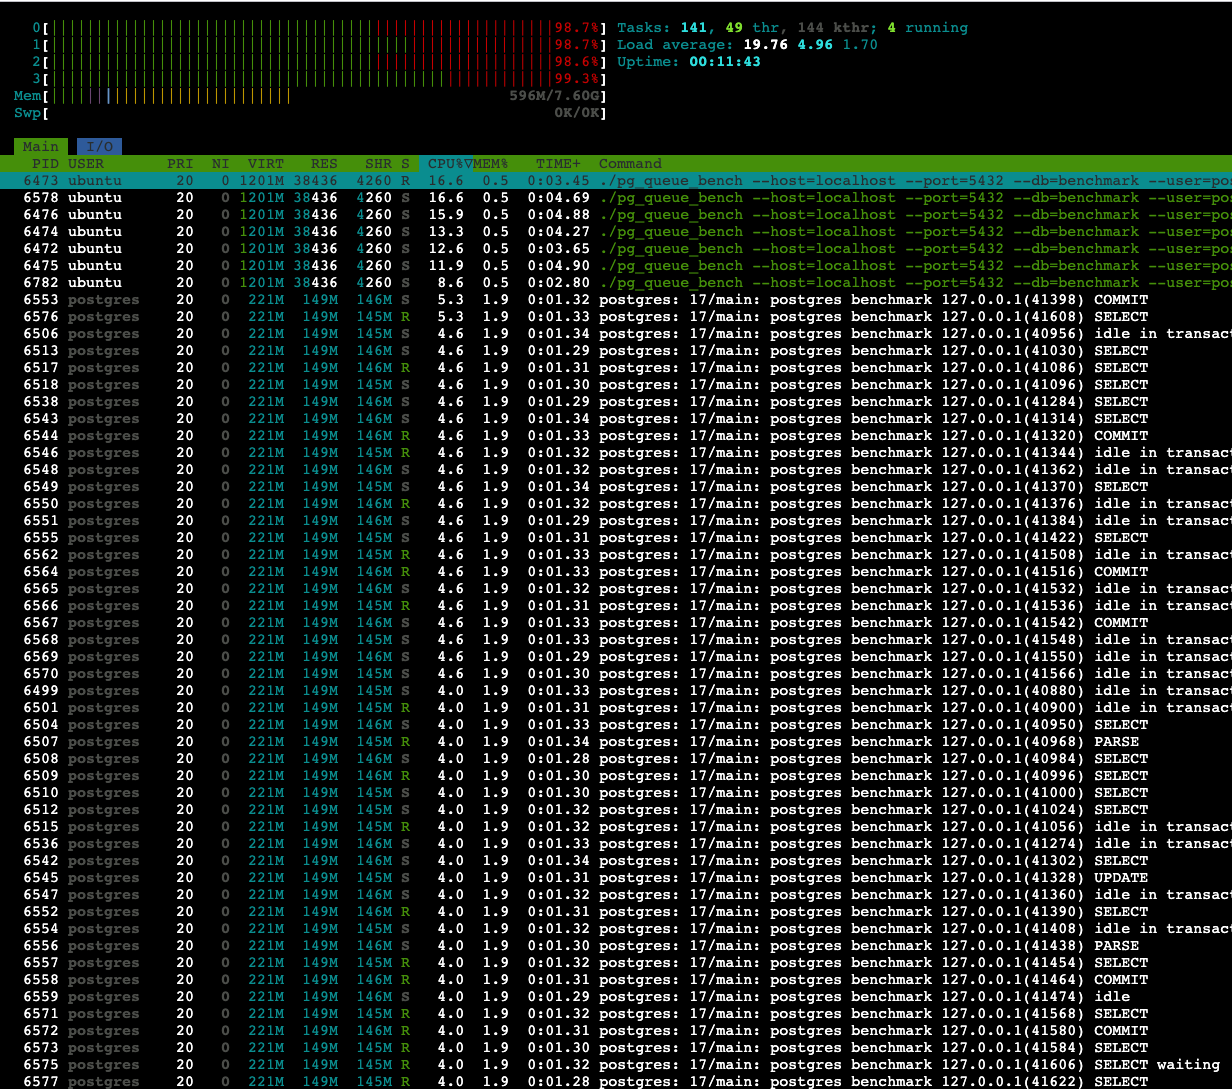
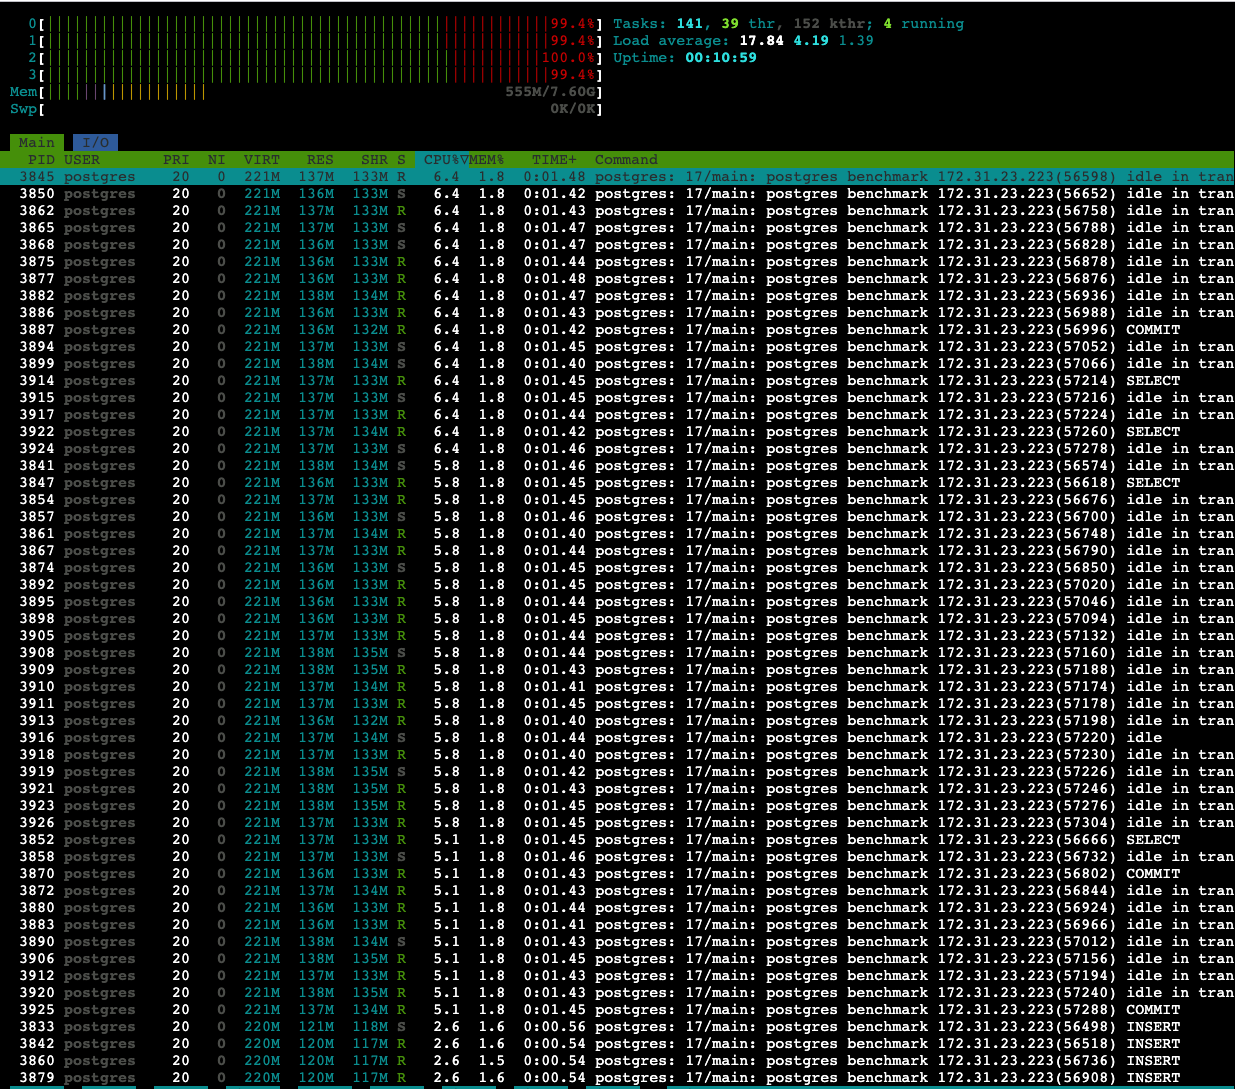
Add definitive results with diff client/server and 4vcpu

diff --git a/results/queue/4vcpu/unlimited_writes_runs.md b/results/queue/4vcpu/unlimited_writes_runs.md
@@ -1,0 +1,149 @@
+
+![4vcpu_htop_screen.png](./4vcpu_htop_screen.png) for more details.
+
+
+# Run 1:
+
+```bash
+ubuntu@ip-172-31-23-223:/tmp/postgres-queue-benchmarks$ ./pg_queue_bench   --host=$HOST   --port=5432   --db=benchmark   --user=postgres   --password=postgres   --writers=50   --readers=50   --duration=120s   --payload=1024   --report=5s
+[12:37:40] W: 13444/s R: 4296/s QDepth: 45742 Err(W/R): 0/0
+[12:37:45] W: 13994/s R: 4065/s QDepth: 95389 Err(W/R): 0/0
+[12:37:50] W: 13213/s R: 3736/s QDepth: 142775 Err(W/R): 0/0
+[12:37:55] W: 13225/s R: 3551/s QDepth: 191145 Err(W/R): 0/0
+[12:38:00] W: 12752/s R: 3351/s QDepth: 238149 Err(W/R): 0/0
+[12:38:05] W: 12596/s R: 3148/s QDepth: 285387 Err(W/R): 0/0
+[12:38:10] W: 11860/s R: 3035/s QDepth: 329512 Err(W/R): 0/0
+[12:38:15] W: 11886/s R: 2948/s QDepth: 374201 Err(W/R): 0/0
+[12:38:20] W: 13049/s R: 2654/s QDepth: 426172 Err(W/R): 0/0
+[12:38:25] W: 13058/s R: 3523/s QDepth: 473845 Err(W/R): 0/0
+[12:38:30] W: 12349/s R: 3339/s QDepth: 518897 Err(W/R): 0/0
+[12:38:35] W: 9232/s R: 1419/s QDepth: 557963 Err(W/R): 0/0
+[12:38:40] W: 8687/s R: 834/s QDepth: 597229 Err(W/R): 0/0
+[12:38:45] W: 7078/s R: 685/s QDepth: 629198 Err(W/R): 0/0
+[12:38:50] W: 7116/s R: 584/s QDepth: 661856 Err(W/R): 0/0
+[12:38:55] W: 6973/s R: 517/s QDepth: 694133 Err(W/R): 0/0
+[12:39:00] W: 6224/s R: 579/s QDepth: 722359 Err(W/R): 0/0
+[12:39:05] W: 11045/s R: 2527/s QDepth: 764948 Err(W/R): 0/0
+[12:39:10] W: 12520/s R: 2944/s QDepth: 812828 Err(W/R): 0/0
+[12:39:15] W: 12286/s R: 2848/s QDepth: 860016 Err(W/R): 0/0
+[12:39:20] W: 11700/s R: 2748/s QDepth: 904775 Err(W/R): 0/0
+[12:39:25] W: 11682/s R: 2616/s QDepth: 950104 Err(W/R): 0/0
+[12:39:30] W: 11019/s R: 2606/s QDepth: 992169 Err(W/R): 0/0
+
+=== Summary ===
+Total Writes: 1341944
+Total Reads: 305180
+Total Updates: 305180
+Write Errors: 0
+Read Errors: 6
+Avg Write Throughput: 11182.87 rows/sec
+Avg Read Throughput: 2543.17 rows/sec
+
+Write Latencies:
+  P50: 3.201023ms
+  P95: 11.149311ms
+  P99: 26.296319ms
+
+Read Latencies:
+  P50: 14.966783ms
+  P95: 53.870591ms
+  P99: 100.335615ms
+
+2025/09/30 12:39:35 benchmark complete
+```
+# Run 2
+```bash
+ubuntu@ip-172-31-23-223:/tmp/postgres-queue-benchmarks$ ./pg_queue_bench   --host=$HOST   --port=5432   --db=benchmark   --user=postgres   --password=postgres   --writers=50   --readers=50   --duration=120s   --payload=1024   --report=5s
+[12:40:08] W: 14031/s R: 4298/s QDepth: 48665 Err(W/R): 0/0
+[12:40:13] W: 14627/s R: 4018/s QDepth: 101708 Err(W/R): 0/0
+[12:40:18] W: 13690/s R: 3708/s QDepth: 151616 Err(W/R): 0/0
+[12:40:23] W: 13740/s R: 3506/s QDepth: 202787 Err(W/R): 0/0
+[12:40:28] W: 13505/s R: 3312/s QDepth: 253751 Err(W/R): 0/0
+[12:40:33] W: 13812/s R: 3127/s QDepth: 307179 Err(W/R): 0/0
+[12:40:38] W: 12589/s R: 3050/s QDepth: 354883 Err(W/R): 0/0
+[12:40:43] W: 8287/s R: 1135/s QDepth: 390640 Err(W/R): 0/0
+[12:40:48] W: 7398/s R: 792/s QDepth: 423671 Err(W/R): 0/0
+[12:40:53] W: 10793/s R: 2043/s QDepth: 467421 Err(W/R): 0/0
+[12:40:58] W: 13309/s R: 3293/s QDepth: 517500 Err(W/R): 0/0
+[12:41:03] W: 11118/s R: 2418/s QDepth: 561001 Err(W/R): 0/0
+[12:41:08] W: 12627/s R: 3065/s QDepth: 608808 Err(W/R): 0/0
+[12:41:13] W: 12835/s R: 2948/s QDepth: 658244 Err(W/R): 0/0
+[12:41:18] W: 12642/s R: 2834/s QDepth: 707289 Err(W/R): 0/0
+[12:41:23] W: 12450/s R: 2705/s QDepth: 756015 Err(W/R): 0/0
+[12:41:28] W: 12656/s R: 2598/s QDepth: 806304 Err(W/R): 0/0
+[12:41:33] W: 12377/s R: 2509/s QDepth: 855646 Err(W/R): 0/0
+[12:41:38] W: 11618/s R: 2496/s QDepth: 901259 Err(W/R): 0/0
+[12:41:43] W: 11773/s R: 2413/s QDepth: 948060 Err(W/R): 0/0
+[12:41:48] W: 12081/s R: 2343/s QDepth: 996751 Err(W/R): 0/0
+[12:41:53] W: 11378/s R: 2323/s QDepth: 1042026 Err(W/R): 0/0
+[12:41:58] W: 11192/s R: 2248/s QDepth: 1086746 Err(W/R): 0/0
+
+=== Summary ===
+Total Writes: 1447305
+Total Reads: 324410
+Total Updates: 324410
+Write Errors: 0
+Read Errors: 25
+Avg Write Throughput: 12060.88 rows/sec
+Avg Read Throughput: 2703.42 rows/sec
+
+Write Latencies:
+  P50: 3.096575ms
+  P95: 9.748479ms
+  P99: 22.806527ms
+
+Read Latencies:
+  P50: 15.654911ms
+  P95: 36.077567ms
+  P99: 69.140479ms
+
+2025/09/30 12:42:02 benchmark complete
+```
+# Run 3
+```bash
+ubuntu@ip-172-31-23-223:/tmp/postgres-queue-benchmarks$ ./pg_queue_bench   --host=$HOST   --port=5432   --db=benchmark   --user=postgres   --password=postgres   --writers=50   --readers=50   --duration=120s   --payload=1024   --report=5s
+[12:42:18] W: 13912/s R: 4321/s QDepth: 47957 Err(W/R): 0/0
+[12:42:23] W: 14022/s R: 3781/s QDepth: 99162 Err(W/R): 0/0
+[12:42:28] W: 14164/s R: 3895/s QDepth: 150505 Err(W/R): 0/0
+[12:42:33] W: 13553/s R: 3916/s QDepth: 198690 Err(W/R): 0/0
+[12:42:38] W: 13781/s R: 3648/s QDepth: 249353 Err(W/R): 0/0
+[12:42:43] W: 13473/s R: 3445/s QDepth: 299491 Err(W/R): 0/0
+[12:42:48] W: 12906/s R: 3283/s QDepth: 347609 Err(W/R): 0/0
+[12:42:53] W: 12571/s R: 3135/s QDepth: 394787 Err(W/R): 0/0
+[12:42:58] W: 13082/s R: 2978/s QDepth: 445308 Err(W/R): 0/0
+[12:43:03] W: 12469/s R: 2903/s QDepth: 493137 Err(W/R): 0/0
+[12:43:08] W: 12188/s R: 2807/s QDepth: 540041 Err(W/R): 0/0
+[12:43:13] W: 12639/s R: 2676/s QDepth: 589857 Err(W/R): 0/0
+[12:43:18] W: 12403/s R: 2599/s QDepth: 638877 Err(W/R): 0/0
+[12:43:23] W: 12007/s R: 2513/s QDepth: 686347 Err(W/R): 0/0
+[12:43:28] W: 11873/s R: 2437/s QDepth: 733524 Err(W/R): 0/0
+[12:43:33] W: 12048/s R: 2368/s QDepth: 781927 Err(W/R): 0/0
+[12:43:38] W: 11920/s R: 2314/s QDepth: 829960 Err(W/R): 0/0
+[12:43:43] W: 11154/s R: 2270/s QDepth: 874377 Err(W/R): 0/0
+[12:43:48] W: 11266/s R: 2218/s QDepth: 919619 Err(W/R): 0/0
+[12:43:53] W: 11056/s R: 2192/s QDepth: 963940 Err(W/R): 0/0
+[12:43:58] W: 11021/s R: 2132/s QDepth: 1008385 Err(W/R): 0/0
+[12:44:03] W: 10984/s R: 2091/s QDepth: 1052853 Err(W/R): 0/0
+[12:44:08] W: 10547/s R: 2065/s QDepth: 1095266 Err(W/R): 0/0
+
+=== Summary ===
+Total Writes: 1471892
+Total Reads: 338139
+Total Updates: 338139
+Write Errors: 0
+Read Errors: 10
+Avg Write Throughput: 12265.77 rows/sec
+Avg Read Throughput: 2817.82 rows/sec
+
+Write Latencies:
+  P50: 3.059711ms
+  P95: 9.437183ms
+  P99: 22.724607ms
+
+Read Latencies:
+  P50: 15.728639ms
+  P95: 31.899647ms
+  P99: 48.955391ms
+
+2025/09/30 12:44:12 benchmark complete
+```

diff --git a/results/queue/4vcpu/4vcpu.md b/results/queue/4vcpu/4vcpu.md
@@ -1,78 +1,33 @@
-- c7i.xlarge
-- io2 40GB with 10,000 IOPS
-- Ubuntu 24.04
-- 50 writers
-- 50 readers
-- 1 KB payload
-- 120s duration
-- absolute default postgres settings
+- server: c7i.xlarge
+  - io2 40GB with 10,000 IOPS
+  - Ubuntu 24.04
+  - absolute default postgres settings
+- client: c7i.xlarge
+  - 50 writers
+  - 50 readers
+  - 1 KB payload
+  - 120s duration
 
 # Run 1 (unlimited writes)
 
-- ✍ write: **10 MB/s**
-- 📖 read: **2.2 MB/s**
+```bash
+./pg_queue_bench   --host=$HOST   --port=5432   --db=benchmark   --user=postgres   --password=postgres   --writers=50   --readers=50   --duration=120s   --payload=1024   --report=5s
+```
+Ran three times. See detailed results in [unlimited_writes_runs.md](./unlimited_writes_runs.md). It averages out to:
+
+- ✍ write: **12.2 MB/s**
+- 📖 read: **2.7 MB/s**
+- write latency:
+  - p99: 24 ms
+  - p95: 10 ms
+  - p50: 3.1 ms
+- read latency:
+  - p99: 73 ms
+  - p95: 41 ms
+  - p50: 15.5 ms
 - bottleneck: 100% CPU
 
-See ![4vcpu_htop_screen.png](./4vcpu_htop_screen.png) for more details.
-
-
-```bash
-ubuntu@ip-172-31-20-198:/tmp/postgres-queue-benchmarks$ ./pg_queue_bench \
-  --host=localhost \
-  --port=5432 \
-  --db=benchmark \
-  --user=postgres \
-  --password=postgres \
-  --writers=50 \
-  --readers=50 \
-  --duration=120s \
-  --payload=1024 \
-  --report=5s
-[11:47:10] W: 10660/s R: 3288/s QDepth: 36860 Err(W/R): 0/0
-[11:47:15] W: 10556/s R: 2784/s QDepth: 75719 Err(W/R): 0/0
-[11:47:20] W: 10450/s R: 2799/s QDepth: 113976 Err(W/R): 0/0
-[11:47:25] W: 11290/s R: 2766/s QDepth: 156596 Err(W/R): 0/0
-[11:47:30] W: 10851/s R: 2791/s QDepth: 196894 Err(W/R): 0/0
-[11:47:35] W: 10308/s R: 2605/s QDepth: 235411 Err(W/R): 0/0
-[11:47:40] W: 10413/s R: 2638/s QDepth: 274285 Err(W/R): 0/0
-[11:47:45] W: 10192/s R: 2586/s QDepth: 312315 Err(W/R): 0/0
-[11:47:50] W: 7864/s R: 1095/s QDepth: 346159 Err(W/R): 0/0
-[11:47:55] W: 6726/s R: 790/s QDepth: 375840 Err(W/R): 0/0
-[11:48:00] W: 6872/s R: 636/s QDepth: 407023 Err(W/R): 0/0
-[11:48:05] W: 10644/s R: 2336/s QDepth: 448556 Err(W/R): 0/0
-[11:48:10] W: 10417/s R: 2598/s QDepth: 487653 Err(W/R): 0/0
-[11:48:15] W: 10590/s R: 2569/s QDepth: 527758 Err(W/R): 0/0
-[11:48:20] W: 10812/s R: 2536/s QDepth: 569135 Err(W/R): 0/0
-[11:48:25] W: 10389/s R: 2459/s QDepth: 608786 Err(W/R): 0/0
-[11:48:30] W: 10414/s R: 2333/s QDepth: 649194 Err(W/R): 0/0
-[11:48:35] W: 10239/s R: 2298/s QDepth: 688901 Err(W/R): 0/0
-[11:48:40] W: 10120/s R: 2231/s QDepth: 728344 Err(W/R): 0/0
-[11:48:45] W: 10663/s R: 2165/s QDepth: 770832 Err(W/R): 0/0
-[11:48:50] W: 9885/s R: 2065/s QDepth: 809932 Err(W/R): 0/0
-[11:48:55] W: 9821/s R: 2031/s QDepth: 848880 Err(W/R): 0/0
-[11:49:00] W: 10025/s R: 1985/s QDepth: 889082 Err(W/R): 0/0
-
-=== Summary ===
-Total Writes: 1200112
-Total Reads: 271724
-Total Updates: 271724
-Write Errors: 0
-Read Errors: 5
-Avg Write Throughput: 10000.93 rows/sec
-Avg Read Throughput: 2264.37 rows/sec
-
-Write Latencies:
-  P50: 3.389439ms
-  P95: 14.270463ms
-  P99: 30.818303ms
-
-Read Latencies:
-  P50: 16.973823ms
-  P95: 55.214079ms
-  P99: 96.206847ms
-
-2025/09/30 11:49:05 benchmark complete
-```
-
-
 # Run 2 (limit writes to max reads we can get)
+
+Since writes massively outpace reads, let's see if artificially throttling them to some rate can improve our reads.
+Our goal is to figure out what's the max 1:1 ratio they can reach.

diff --git a/results/queue/README.md b/results/queue/README.md
@@ -10,12 +10,13 @@ Vacuum apparently takes time to prune them away, and until it does - reads are s
 
 A more performant approach is to delete rows once read.
 This keeps the table small and performant. Since we don't necessarily want to omit the data (some companies have a policy of never deleting, at least before a backup) - we will move the data to another table.
-
+In my simple tests, I find this increases read throughput by **50%** at larger scale.
 ---
 
-## 1. Prepare Environment
-
+## 1. Prepare Server Environment
+Create a Server EC2. Pick the instance carefully
 ```bash
+export PRIVATE_IP=172.31.20.198
 ### Mount fast volume for PostgreSQL data
 DEV=/dev/nvme1n1    # adjust if lsblk shows a different device
 MNT=/pgdata
@@ -25,8 +26,10 @@ sudo mkdir -p $MNT
 sudo mount $DEV $MNT
 
 sudo mkdir -p $MNT/pg17
-sudo chown -R postgres:postgres /pgdata/pg17
-sudo chmod 700 /pgdata/pg17
+sudo chown -R postgres:postgres $MNT/pg17
+sudo chmod 700 $MNT/pg17
+sudo chown root:postgres $MNT
+sudo chmod 750 $MNT
 # persist mount
 UUID=$(sudo blkid -s UUID -o value $DEV)
 echo "UUID=$UUID $MNT xfs defaults,nofail 0 2" | sudo tee -a /etc/fstab
@@ -46,16 +49,24 @@ sudo apt-get install -y postgresql-17 postgresql-client-17 postgresql-common
 
 ### Create cluster on mounted volume
 sudo pg_dropcluster --stop 17 main
-sudo pg_createcluster 17 main --datadir=$MNT/pg17 --port=5432
+sudo pg_createcluster 17 main --datadir=$MNT/pg17 --port=5432 -- -c listen_addresses='$PRIVATE_IP,localhost'
+
 pg_lsclusters
 
+### allow all traffic
+echo "host all all 0.0.0.0/0 md5" | sudo tee -a /etc/postgresql/17/main/pg_hba.conf
+sudo systemctl reload postgresql@17-main
 
 ### Configure database
 sudo -u postgres createdb benchmark
 sudo -u postgres psql -c "ALTER USER postgres WITH PASSWORD 'postgres';"
 ```
-## 2. Install Go
 
+## 2. Prepare Client Environment
+
+Create a Client EC2, in the same AZ as the server.
+Open the security group's postgresql port (5432)
+Install Go
 ```bash
 cd /tmp
 wget https://go.dev/dl/go1.23.2.linux-amd64.tar.gz
@@ -66,7 +77,7 @@ source ~/.bashrc
 go version
 ```
 
-## 3. Build Benchmark
+Build the Benchmark
 ```bash
 git clone https://github.com/stanislavkozlovski/postgres-queue-benchmarks.git
 cd postgres-queue-benchmarks
@@ -74,10 +85,12 @@ cd postgres-queue-benchmarks
 go build -o ./pg_queue_bench .
 chmod +x ./pg_queue_bench
 ```
-## 4. Run Benchmark
+Run the Benchmark
+
+export HOST="172.31.20.198"  # adjust to your server's private IP
 ```bash
 ./pg_queue_bench \
-  --host=localhost \
+  --host=$HOST \
   --port=5432 \
   --db=benchmark \
   --user=postgres \
